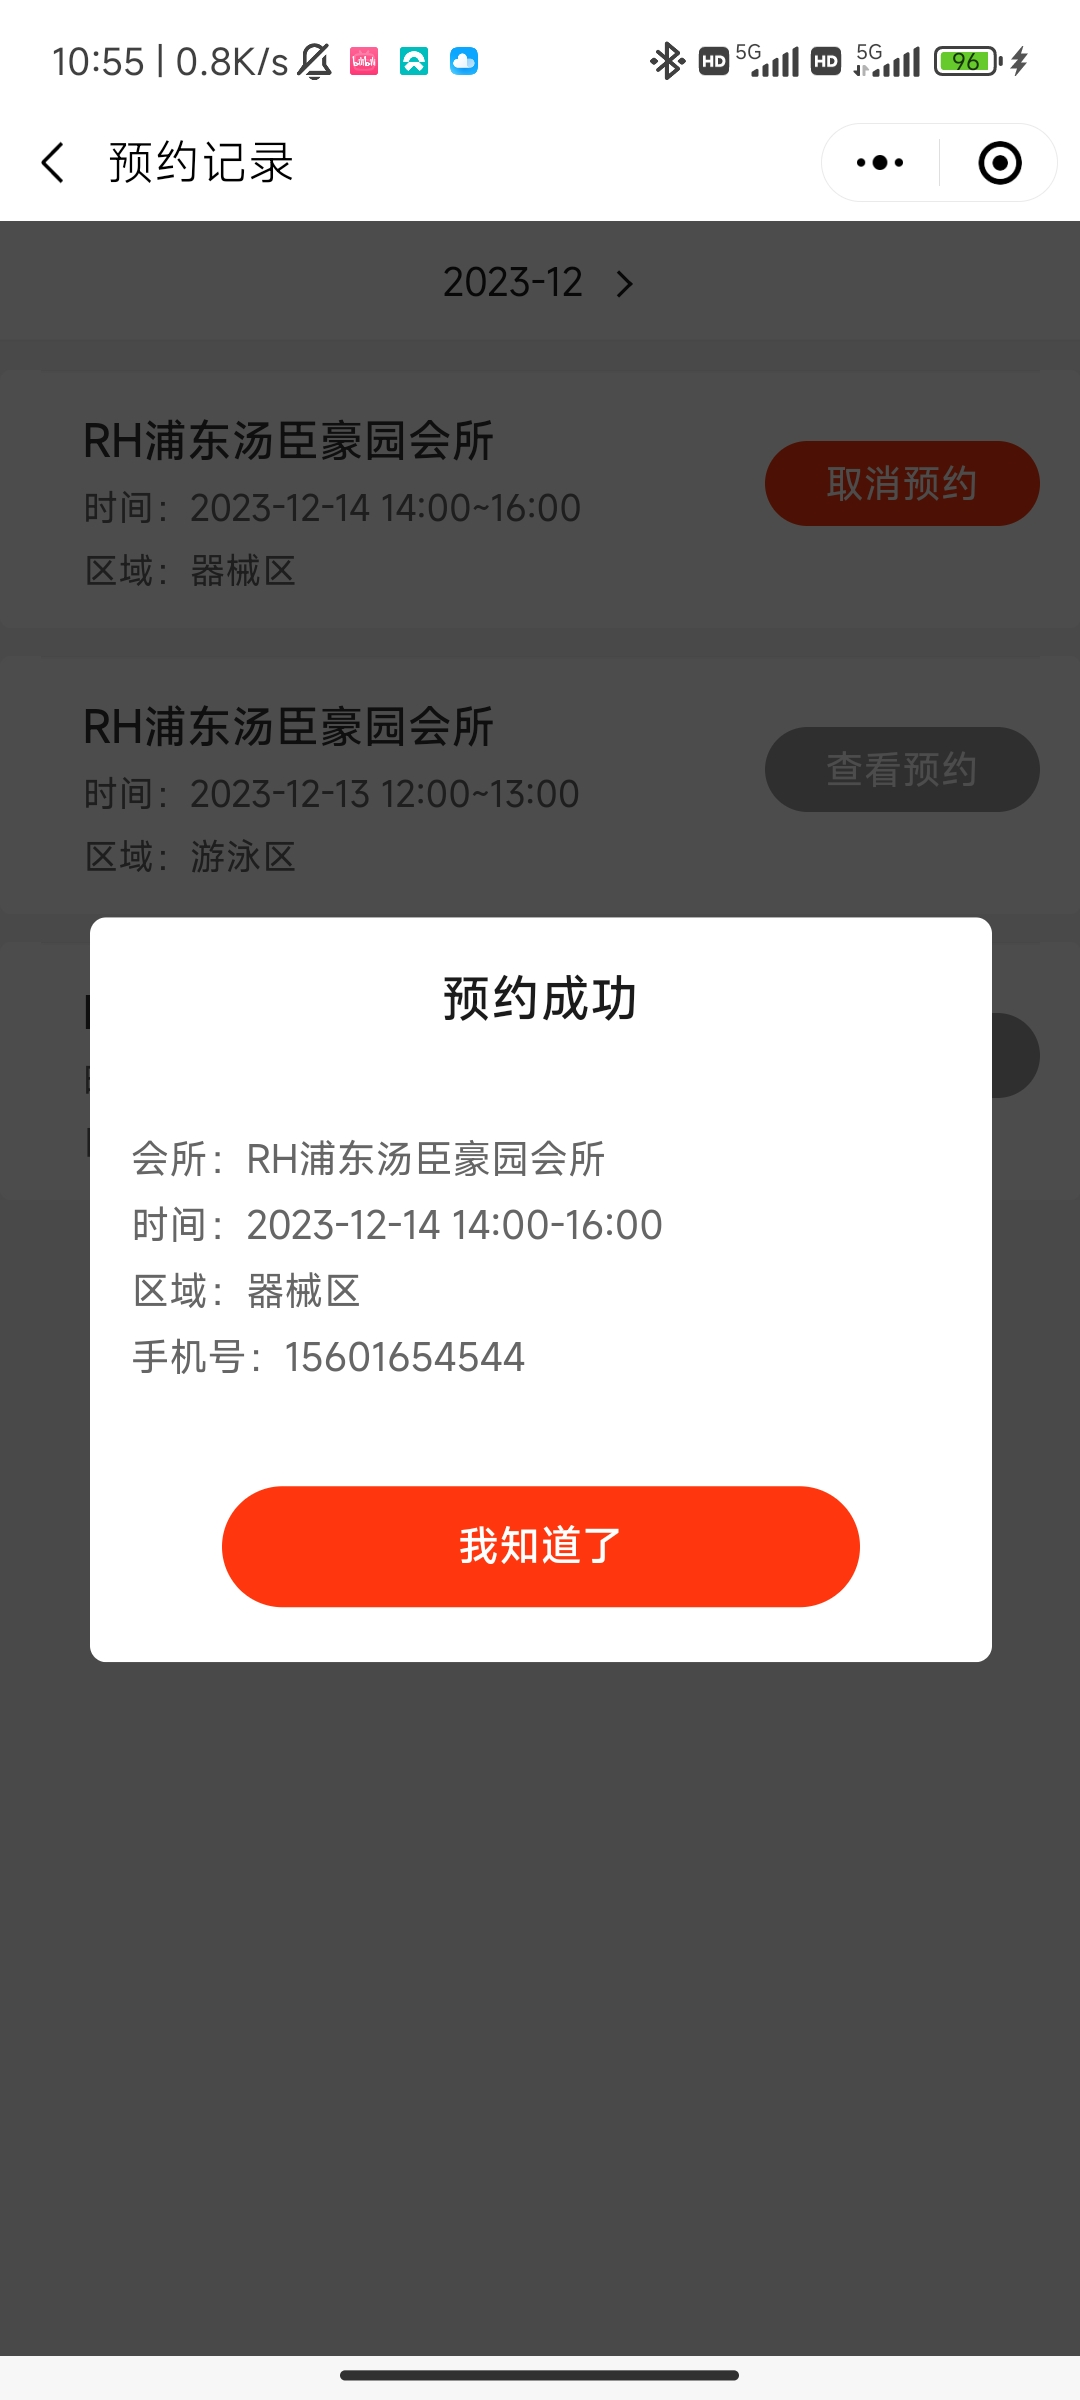
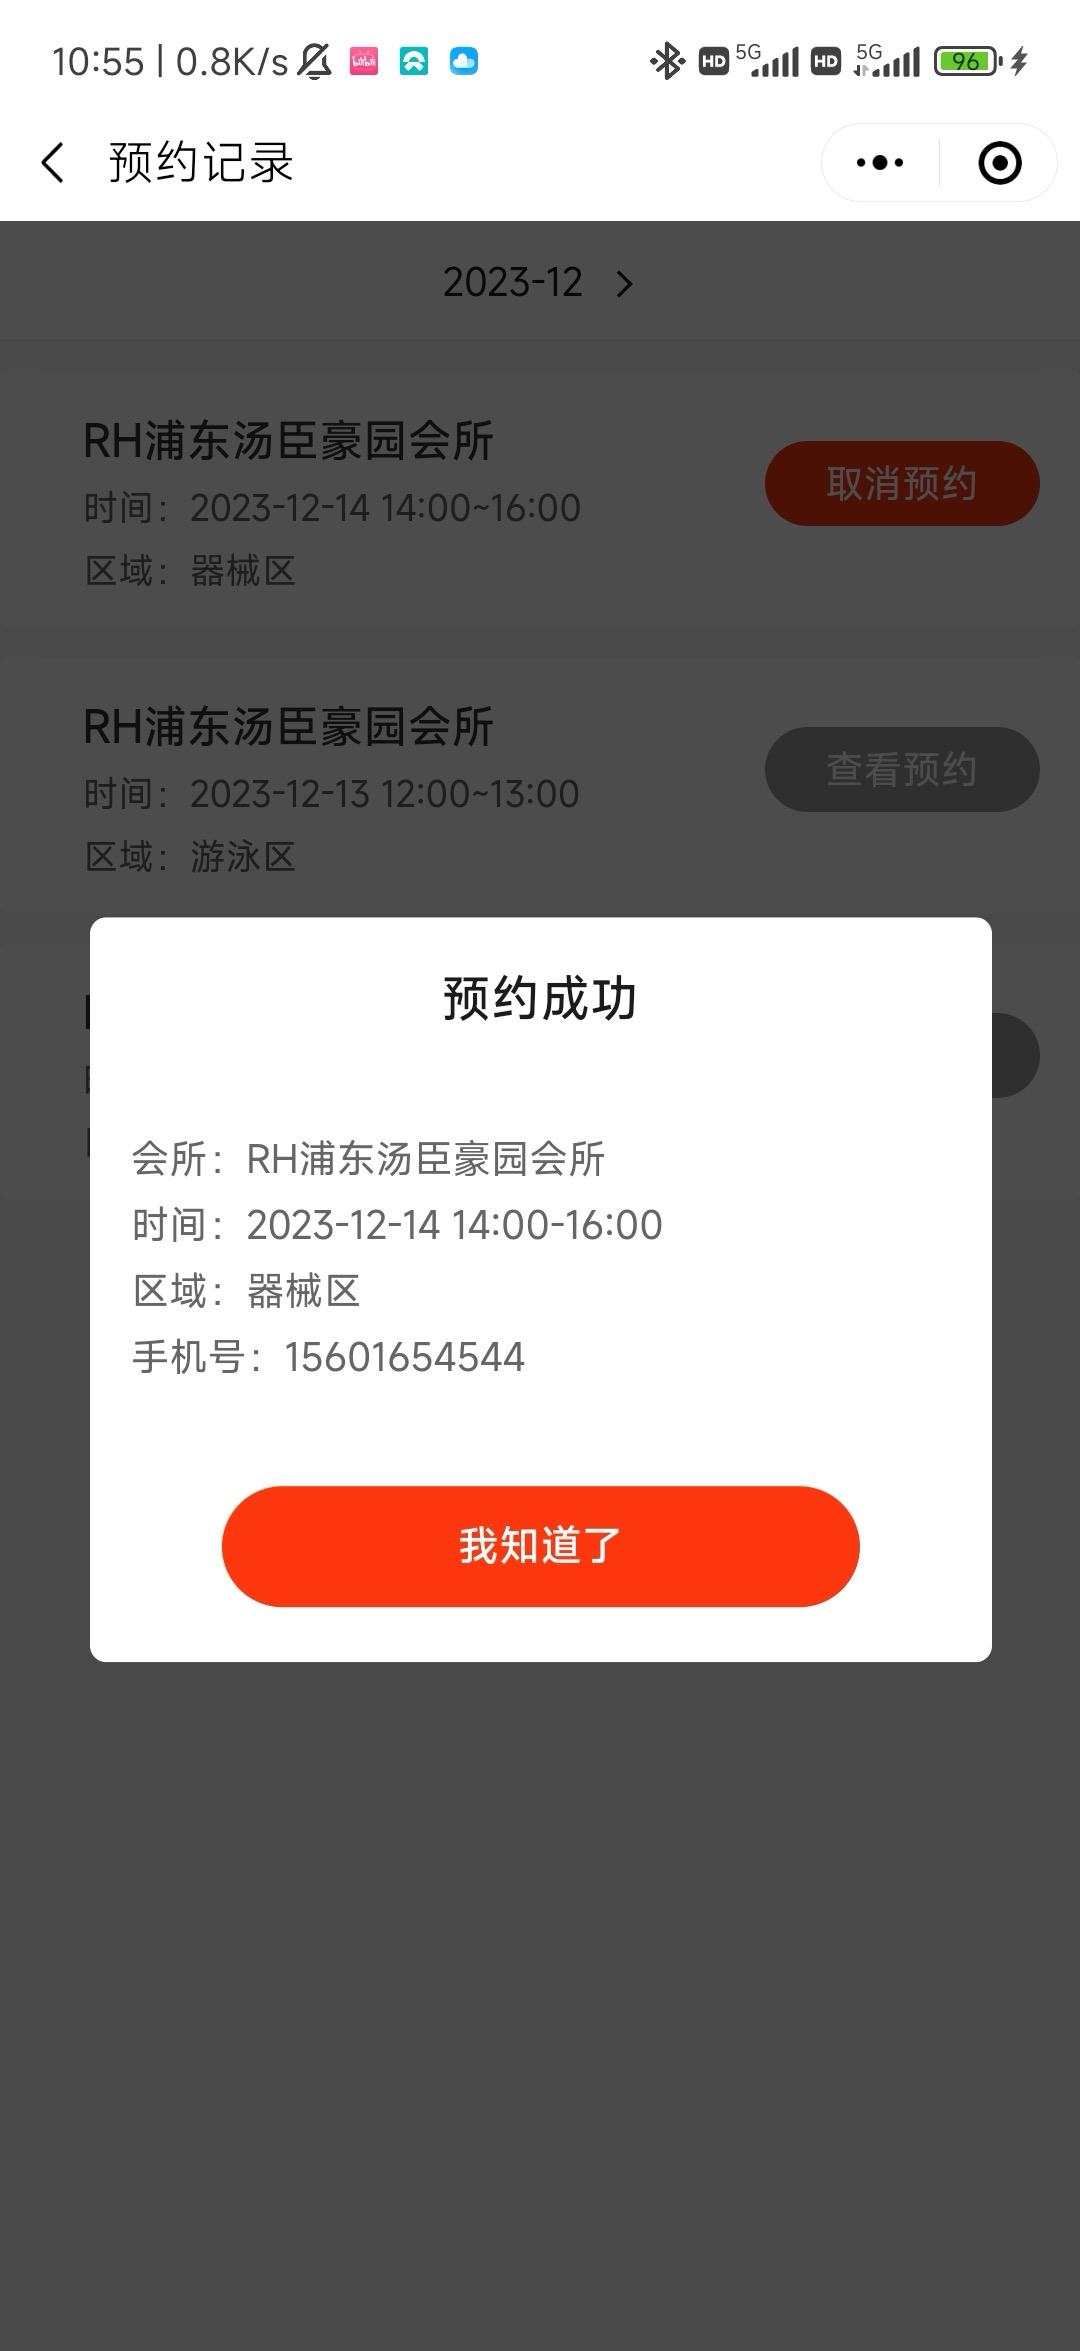
chore

diff --git a/style.css b/style.css
@@ -7,13 +7,17 @@
   font-family: 'misans';
 }
 
+body {
+  margin: 0;
+}
+
 #mask0 {
   display: block;
   background: #4c4c4c;
   color: #151515;
   position: absolute;
   font-size: 40px;
-  top: 265px;
+  top: 256px;
   left: 446px;
 }
 
@@ -22,8 +26,8 @@
   background: white;
   color: #636363;
   position: absolute;
-  top: 1206px;
-  left: 253px;
+  top: 1199px;
+  left: 247px;
   font-size: 39px;
 }
 #mask2 {
@@ -32,8 +36,8 @@
   color: #222;
   position: absolute;
   font-size: 36px;
-  top: 492px;
-  left: 199px;
+  top: 483px;
+  left: 190px;
 }
 #mask3 {
   display: block;
@@ -42,7 +46,7 @@
   position: absolute;
   font-size: 36px;
   top: 778px;
-  left: 199px;
+  left: 190px;
 }
 
 #input {
